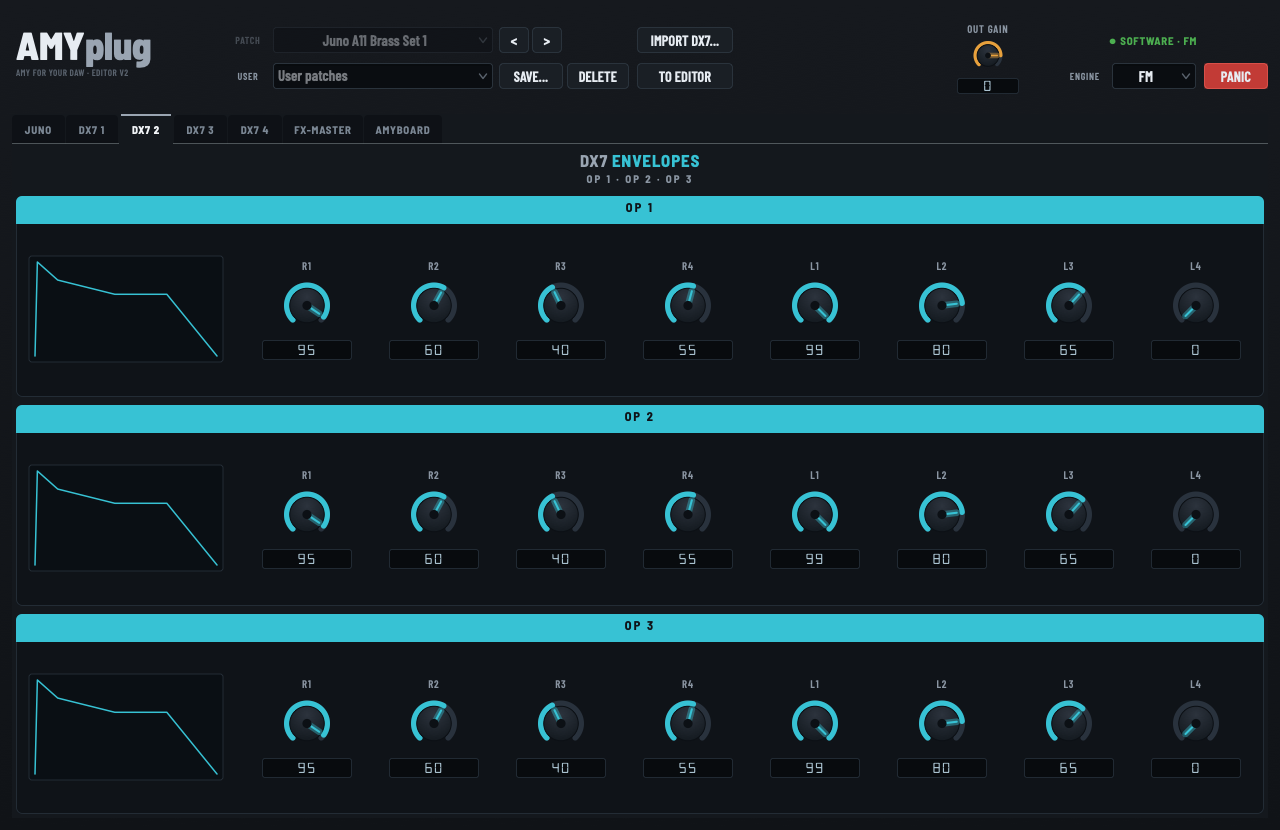
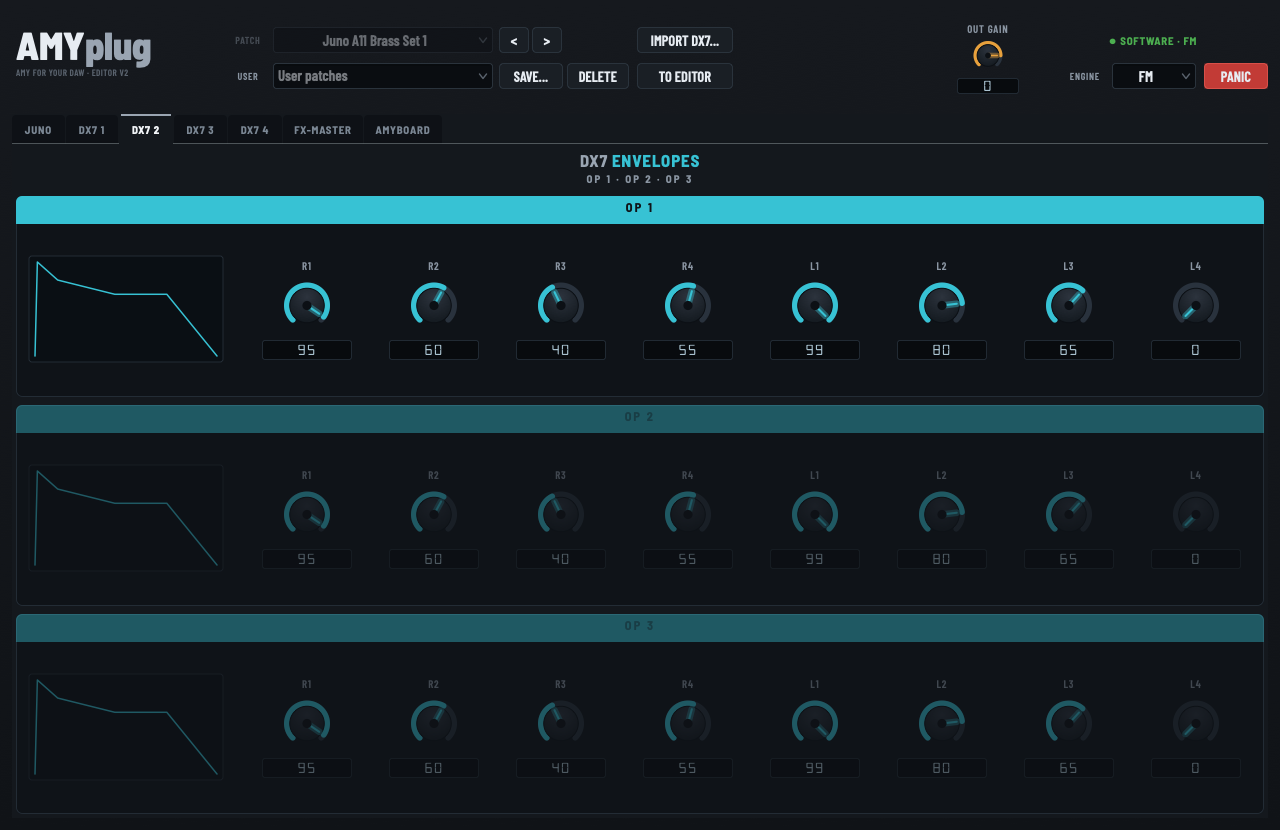
feat(ui): Voices knob in VOICE; dim DX7 operators that output nothing
- Polyphony was automation-only. Add the Voices knob (1-16) to the VOICE card,
  next to Mode/Glide/Unison/Detune where users look for it.
- ControlPanel::setSectionDimmed(title, bool): fade one section's card, title bar
  and controls while keeping it fully editable. Used to dim any DX7 operator whose
  output Level is 0 — on the tuning tab AND its envelope row on DX7 2/3 — so it's
  obvious at a glance which operators a patch actually uses.
- README: document polyphony properly and state that the practical ceiling is CPU
  (6 oscillators per analog voice, 6 FM operators per DX7 voice, more with Unison).
- Screenshots regenerated for the new UI.

diff --git a/src/AmyPlugEditor.cpp b/src/AmyPlugEditor.cpp
@@ -119,6 +119,28 @@ void ControlPanel::addSection(const juce::String& title, juce::Colour accent)
 {
     sectionTitles.add(title);
     sectionAccents.push_back(accent);
+    sectionDimmed.push_back(false);
+}
+
+void ControlPanel::setSectionDimmed(const juce::String& title, bool dimmed)
+{
+    const int sec = sectionTitles.indexOf(title);
+    if (sec < 0 || sec >= (int) sectionDimmed.size()) return;
+    if (sectionDimmed[(size_t) sec] == dimmed) return;          // no-op: don't repaint on every tick
+    sectionDimmed[(size_t) sec] = dimmed;
+
+    // Fade this section's controls (the card + title bar are handled in paint()).
+    const float a = dimmed ? 0.4f : 1.0f;
+    for (auto& c : controls)
+        if (c->section == sec)
+        {
+            c->label.setAlpha(a);
+            if (c->knob)  c->knob->setAlpha(a);
+            if (c->combo) c->combo->setAlpha(a);
+        }
+    if (auto it = graphForSection.find(sec); it != graphForSection.end() && it->second != nullptr)
+        it->second->setAlpha(a);
+    repaint();
 }
 
 namespace
@@ -218,6 +240,9 @@ void ControlPanel::paint(juce::Graphics& g)
     for (int sec = 0; sec < (int) boxes.size(); ++sec)
     {
         auto box = boxes[(size_t) sec];
+        // A dimmed section (e.g. a DX7 operator at level 0) fades its card + title bar so
+        // it reads as "contributing nothing" at a glance, while staying fully editable.
+        const bool dim = sec < (int) sectionDimmed.size() && sectionDimmed[(size_t) sec];
         // Card: panel fill + hairline border.
         g.setColour(col::panel);
         g.fillRoundedRectangle(box.toFloat(), 6.0f);
@@ -226,13 +251,16 @@ void ControlPanel::paint(juce::Graphics& g)
 
         // Accent header bar (top corners rounded to match the card).
         auto tb = box.removeFromTop(kTitleH).toFloat();
-        const auto accent = accentOf(sectionAccents, sec);
+        // Keep `accent` at full strength so headerTextOn() picks the right contrast; the
+        // fade is applied to what's actually drawn (bar + text) instead.
+        const auto accent   = accentOf(sectionAccents, sec);
+        const float dimA    = dim ? 0.4f : 1.0f;
         juce::Path hp;
         hp.addRoundedRectangle(tb.getX(), tb.getY(), tb.getWidth(), tb.getHeight() + 6.0f,
                                6.0f, 6.0f, true, true, false, false);
-        g.setColour(accent);   // full-alpha bar so the dark title text stays readable
+        g.setColour(accent.withMultipliedAlpha(dimA));   // full-alpha bar keeps the dark title readable
         g.fillPath(hp);
-        g.setColour(col::headerTextOn(accent));
+        g.setColour(col::headerTextOn(accent).withMultipliedAlpha(dimA));
         g.setFont(fonts::header(15.0f).withExtraKerningFactor(0.14f));   // section-bar title size (all tabs)
         g.drawText(sectionTitles[sec].toUpperCase(), tb, juce::Justification::centred);
     }
@@ -1060,6 +1088,7 @@ AmyPlugEditor::AmyPlugEditor(AmyPlugProcessor& p)
     // also affect DX7); Unison + Detune are analog-only. VOICE sits in the JUNO top row.
     voicePanel.addSection("VOICE", col::amber);
     voicePanel.addChoice(params::id::voiceMode, "Mode");   // Poly / Mono / Legato
+    voicePanel.addKnob(params::id::numVoices, "Voices");   // polyphony, 1-16 (both engines)
     voicePanel.addKnob(params::id::glide, "Glide");        // portamento (ms)
     voicePanel.addKnob(params::id::unisonVoices, "Unison"); // stacked detuned copies
     voicePanel.addKnob(params::id::unisonDetune, "Detune"); // unison spread, cents
@@ -1379,6 +1408,20 @@ void AmyPlugEditor::timerCallback()
             // ‹ › nav arrows at full brightness so they read as normal buttons.
             for (auto* c : { (juce::Component*) &patchBox, (juce::Component*) &browserLabel })
                 c->setAlpha(factory ? 1.0f : 0.4f);
+        }
+
+        // Fade DX7 operators that output nothing (Level 0) — and their envelope rows on
+        // DX7 2/3 — so it's obvious at a glance which operators a patch actually uses.
+        // Cheap to run every tick: setSectionDimmed early-outs when nothing changed, and
+        // panels that don't own a given "OP n" section simply ignore it.
+        for (int op = 1; op <= 6; ++op)
+        {
+            bool silent = false;
+            if (auto* lv = proc.apvts().getRawParameterValue(params::id::fmOp(op, "outlvl")))
+                silent = (lv->load() <= 0.0f);
+            const juce::String title = "OP " + juce::String(op);
+            for (auto* p : { &fmOscA, &fmOscB, &fmOscC, &fmEnv1Panel, &fmEnv2Panel })
+                p->setSectionDimmed(title, silent);
         }
     }
 }

diff --git a/src/AmyPlugEditor.h b/src/AmyPlugEditor.h
@@ -46,6 +46,11 @@ public:
     void setCellSize(int w, int h) { cellW = w; rowH = h; }
     void setControlHeight(int h) { ctrlH = h; }   // band height (label+knob+readout)
     int  preferredHeight() const;     // total height needed for all sections
+
+    // Dim a section whose controls currently do nothing (e.g. a DX7 operator at level 0):
+    // its card, title bar and controls fade, but everything stays usable so you can bring
+    // it back in. Matched by title, since callers think in names ("OP 3"), not indices.
+    void setSectionDimmed(const juce::String& title, bool dimmed);
     void paint(juce::Graphics&) override;
     void resized() override;
 
@@ -69,6 +74,7 @@ private:
     juce::AudioProcessorValueTreeState& apvts;
     juce::StringArray sectionTitles;
     std::vector<juce::Colour> sectionAccents;
+    std::vector<bool> sectionDimmed;                   // parallel to sectionTitles
     std::vector<std::unique_ptr<Control>> controls;
     std::map<int, juce::Component*> graphForSection;   // section index -> optional graph
     int cellW = 88, rowH = 100, ctrlH = kCtrlH;

diff --git a/README.md b/README.md
@@ -105,7 +105,9 @@ See [`CLAUDE.md`](CLAUDE.md) for the architecture brief and [`docs/`](docs/) for
 - **User patches** — save/load your own; organized by cartridge on import.
 - **Import DX7 `.syx`** cartridges (32-voice bulk dumps) straight into the browser.
 - **Voice modes**: Poly / Mono / **Legato** (true pitch-only slur with **glide/portamento**), plus **Unison** with detune.
-- **Polyphony: 6 notes at once by default**, for both the analog and FM engines (that’s the classic Juno-106 / DX7-era voice count). The `Voices` parameter goes **1–16** and is host-automatable — it has no knob in the UI yet, so set it from your DAW’s parameter list. **Unison** (1–4) stacks extra detuned oscillator copies *inside* each voice, so it thickens notes without using up polyphony — but it does cost CPU.
+- **Polyphony: 6 notes at once by default**, for both the analog and FM engines (that’s the classic Juno-106 / DX7-era voice count). Turn it up to **16** with the **Voices** knob in the VOICE section — it’s host-automatable and saves with the patch like everything else. **Unison** (1–4) stacks extra detuned oscillator copies *inside* each voice, thickening notes without using up polyphony.
+
+  > **The real limit is your CPU.** AMY renders every voice in software, and each one costs: the analog engine builds 6 oscillators per voice (more with Unison), and each DX7 voice runs 6 FM operators. So 16 voices with Unison 4 is *many* times the load of the 6-voice default. If you hear crackles or your DAW reports overload, lower **Voices** (or **Unison**) first, or raise your audio buffer size.
 - **Juno LFO** modes (Poly / Free / Key / Tempo-Sync).
 - **AMY’s full FX bus** on the master — EQ, chorus, echo and reverb.
 - **Two extra output effects of our own**, on top of AMY’s bus: a **Bit Crusher** (independent sample-rate + bit-depth reduction) and a **Diode Clipper** — a wave-digital-filter model of an antiparallel diode pair, for analog-style saturation rather than generic distortion. Both are Faust ports, and both are automatable like everything else.
@@ -124,7 +126,7 @@ Everything above the tabs is always visible: the **patch browser** (factory pres
 
 ![The Juno tab](docs/screenshots/juno.png)
 
-A full Juno-106-style voice. **OSC A–D** are the audio oscillators (wave, frequency, coarse/fine tuning, pulse width, level). **VCF** is the analog filter — cutoff, resonance, keyboard tracking, envelope amount and type — driven by its own **VCF ENV**, while **AMP ENV** shapes the level. **LFO** has selectable mode (Poly / Free / Key / Tempo-Sync), wave and rate, plus separate depths for pitch, PWM and filter. **VOICE** sets Poly / Mono / Legato, glide, and unison with detune.
+A full Juno-106-style voice. **OSC A–D** are the audio oscillators (wave, frequency, coarse/fine tuning, pulse width, level). **VCF** is the analog filter — cutoff, resonance, keyboard tracking, envelope amount and type — driven by its own **VCF ENV**, while **AMP ENV** shapes the level. **LFO** has selectable mode (Poly / Free / Key / Tempo-Sync), wave and rate, plus separate depths for pitch, PWM and filter. **VOICE** sets Poly / Mono / Legato, the **Voices** count (polyphony, 1–16), glide, and unison with detune.
 
 > Parameter-by-parameter mapping to the real Juno-106 (and what AMY does with each) is in [`docs/JUNO_PARAMETERS.md`](docs/JUNO_PARAMETERS.md).
 
